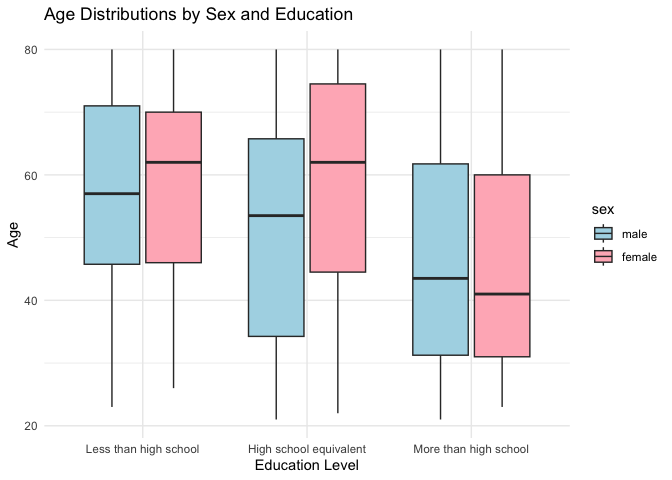
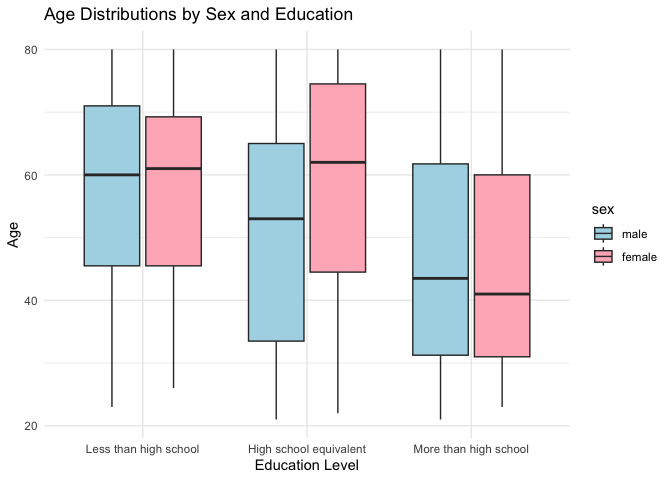
update plots in problem2 and problem3

diff --git a/p8105_hw3_qh2284.md b/p8105_hw3_qh2284.md
@@ -107,7 +107,7 @@ plot_aisle = ggplot(more_than_1e4, aes(x = reorder(aisle, n), y = n)) +
        y = "Number of items ordered") +
   theme_minimal()
 
-plot_aisle
+print(plot_aisle)
 ```
 
 ![](p8105_hw3_qh2284_files/figure-gfm/unnamed-chunk-4-1.png)<!-- -->
@@ -142,7 +142,7 @@ popular_item = instacart %>%
     ## `.groups` argument.
 
 ``` r
-popular_item
+print(popular_item)
 ```
 
     ## # A tibble: 9 × 3
@@ -186,7 +186,7 @@ table_mean_hour <- instacart %>%
     ## `.groups` argument.
 
 ``` r
-table_mean_hour
+print(table_mean_hour)
 ```
 
     ## # A tibble: 2 × 8
@@ -376,7 +376,7 @@ combine_data = inner_join(covar, accel, by = "SEQN") %>%
   mutate(sex = factor(sex, levels = c("male","female"), ordered = TRUE)) %>%
   mutate(education = factor(education, levels = c("Less than high school", "High school equivalent", "More than high school"), ordered = TRUE))  %>%
   # remove those with missing demographic data
-  filter(!is.na(age) & !is.na(sex) & !is.na(education)) %>%
+  filter(!is.na(age) & !is.na(sex) & !is.na(education) & !is.na(BMI)) %>%
   janitor::clean_names()
 ```
 
@@ -410,8 +410,8 @@ edu_sex_table
     ## # A tibble: 3 × 3
     ##   education               male female
     ##   <ord>                  <int>  <int>
-    ## 1 Less than high school     28     29
-    ## 2 High school equivalent    36     23
+    ## 1 Less than high school     27     28
+    ## 2 High school equivalent    35     23
     ## 3 More than high school     56     59
 
 We could observe that there are about half of the male and female have
@@ -450,10 +450,15 @@ plot.**
 
 ``` r
 # calculate the total activity
-total_ac = combine_data %>%
-  mutate(total = rowSums(select(., min1:min1440), na.rm = TRUE)) %>%
-  select(seqn, sex, age, bmi, education, total)
+total_ac = combine_longer %>%
+  group_by(seqn,sex,age,bmi,education) %>%
+  summarise(total = sum(mins_act)) 
+```
 
+    ## `summarise()` has grouped output by 'seqn', 'sex', 'age', 'bmi'. You can
+    ## override using the `.groups` argument.
+
+``` r
 act_plot = ggplot(total_ac, aes(x = age, y = total, color = sex)) +
   geom_point(alpha = 0.5) +
   geom_smooth(se = FALSE) +
@@ -487,7 +492,7 @@ time_new = combine_longer %>%
 
 # create the plot
 plot_24h = ggplot(time_new, aes(x = time_mins, y = mins_act, color = sex)) +
-  geom_point() +
+  geom_point(alpha = 0.5) +
   facet_wrap(~ education, nrow = 2) +
   geom_smooth(se = FALSE) +
   labs(title = "24-hour Activity Time Courses for Each Education Level and Sex",
